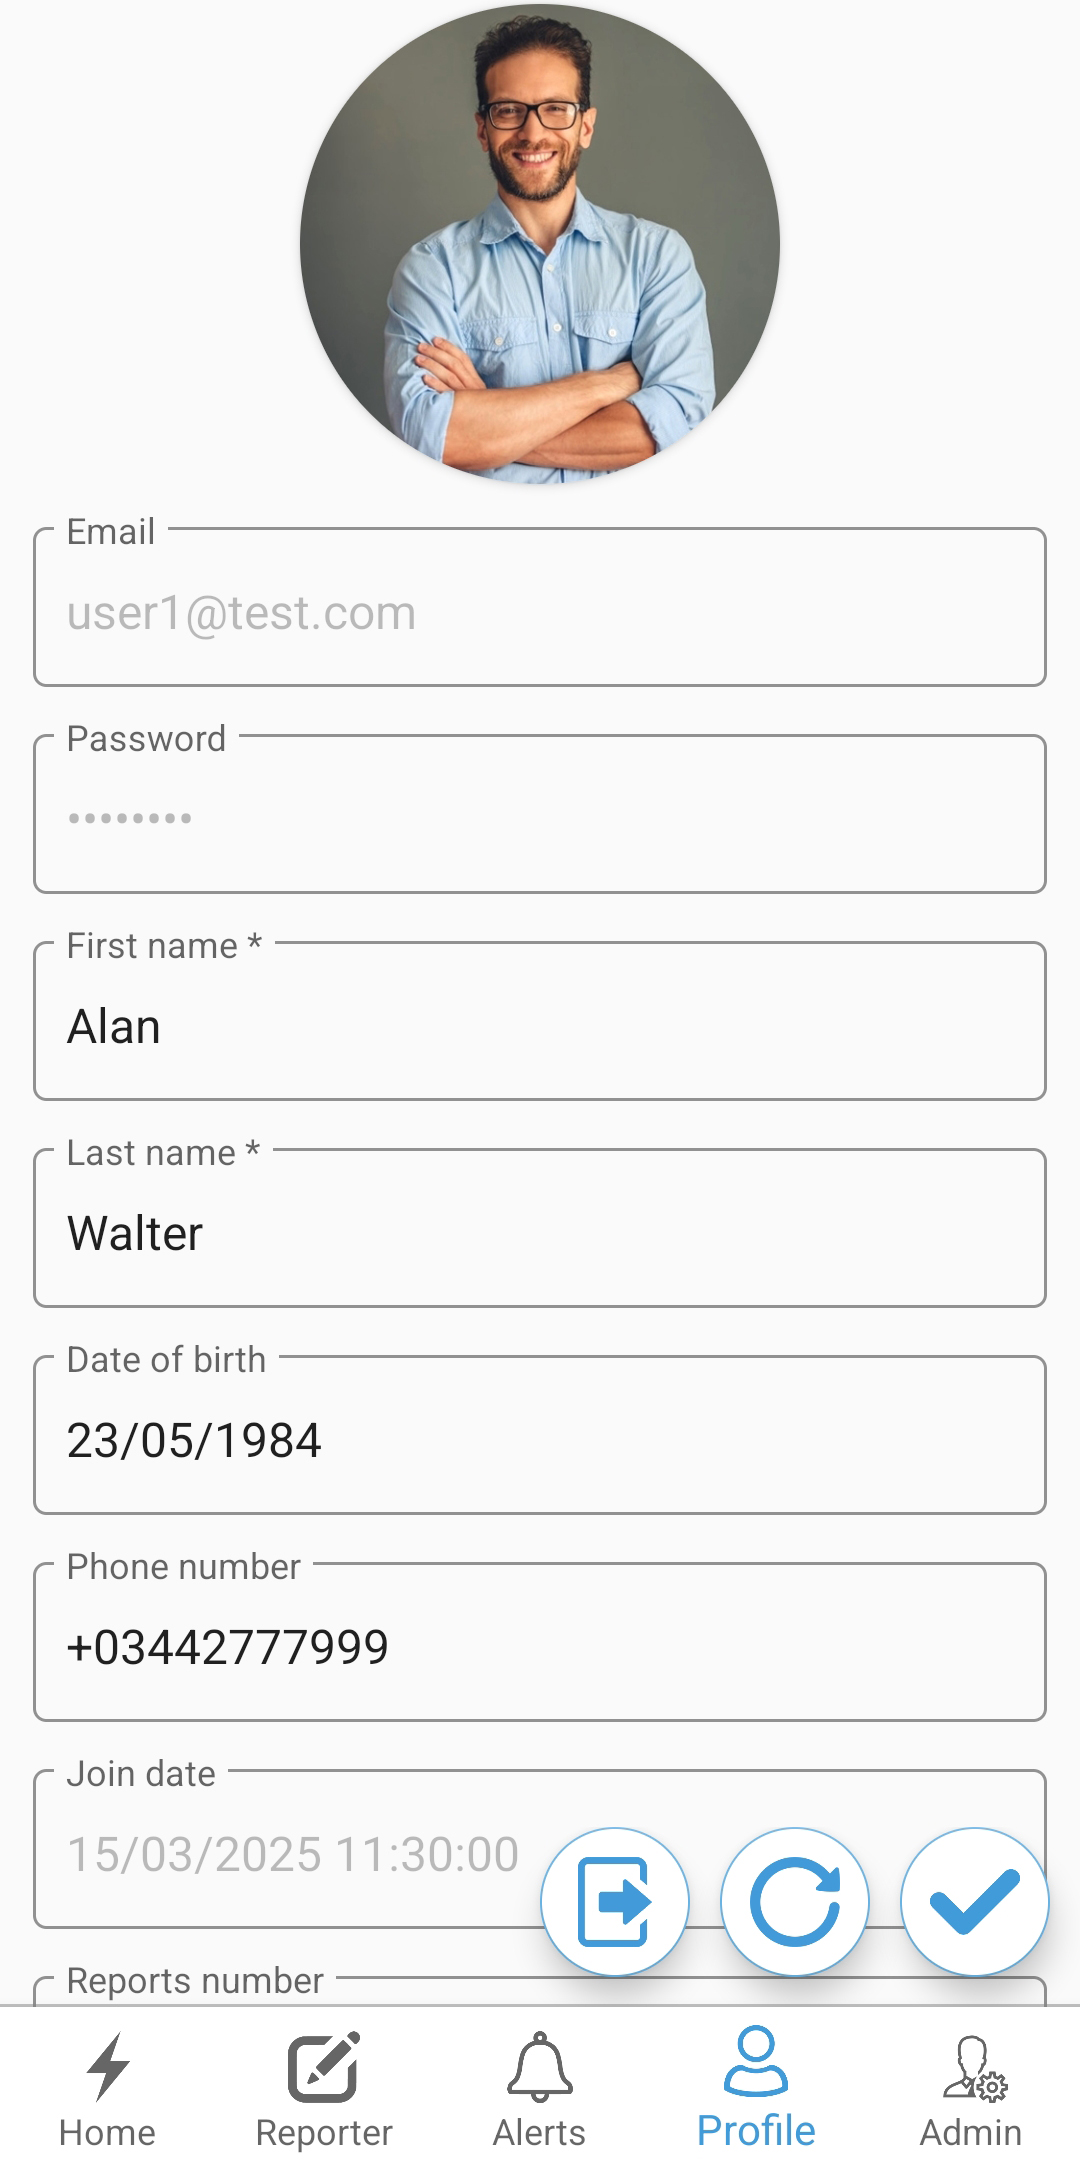
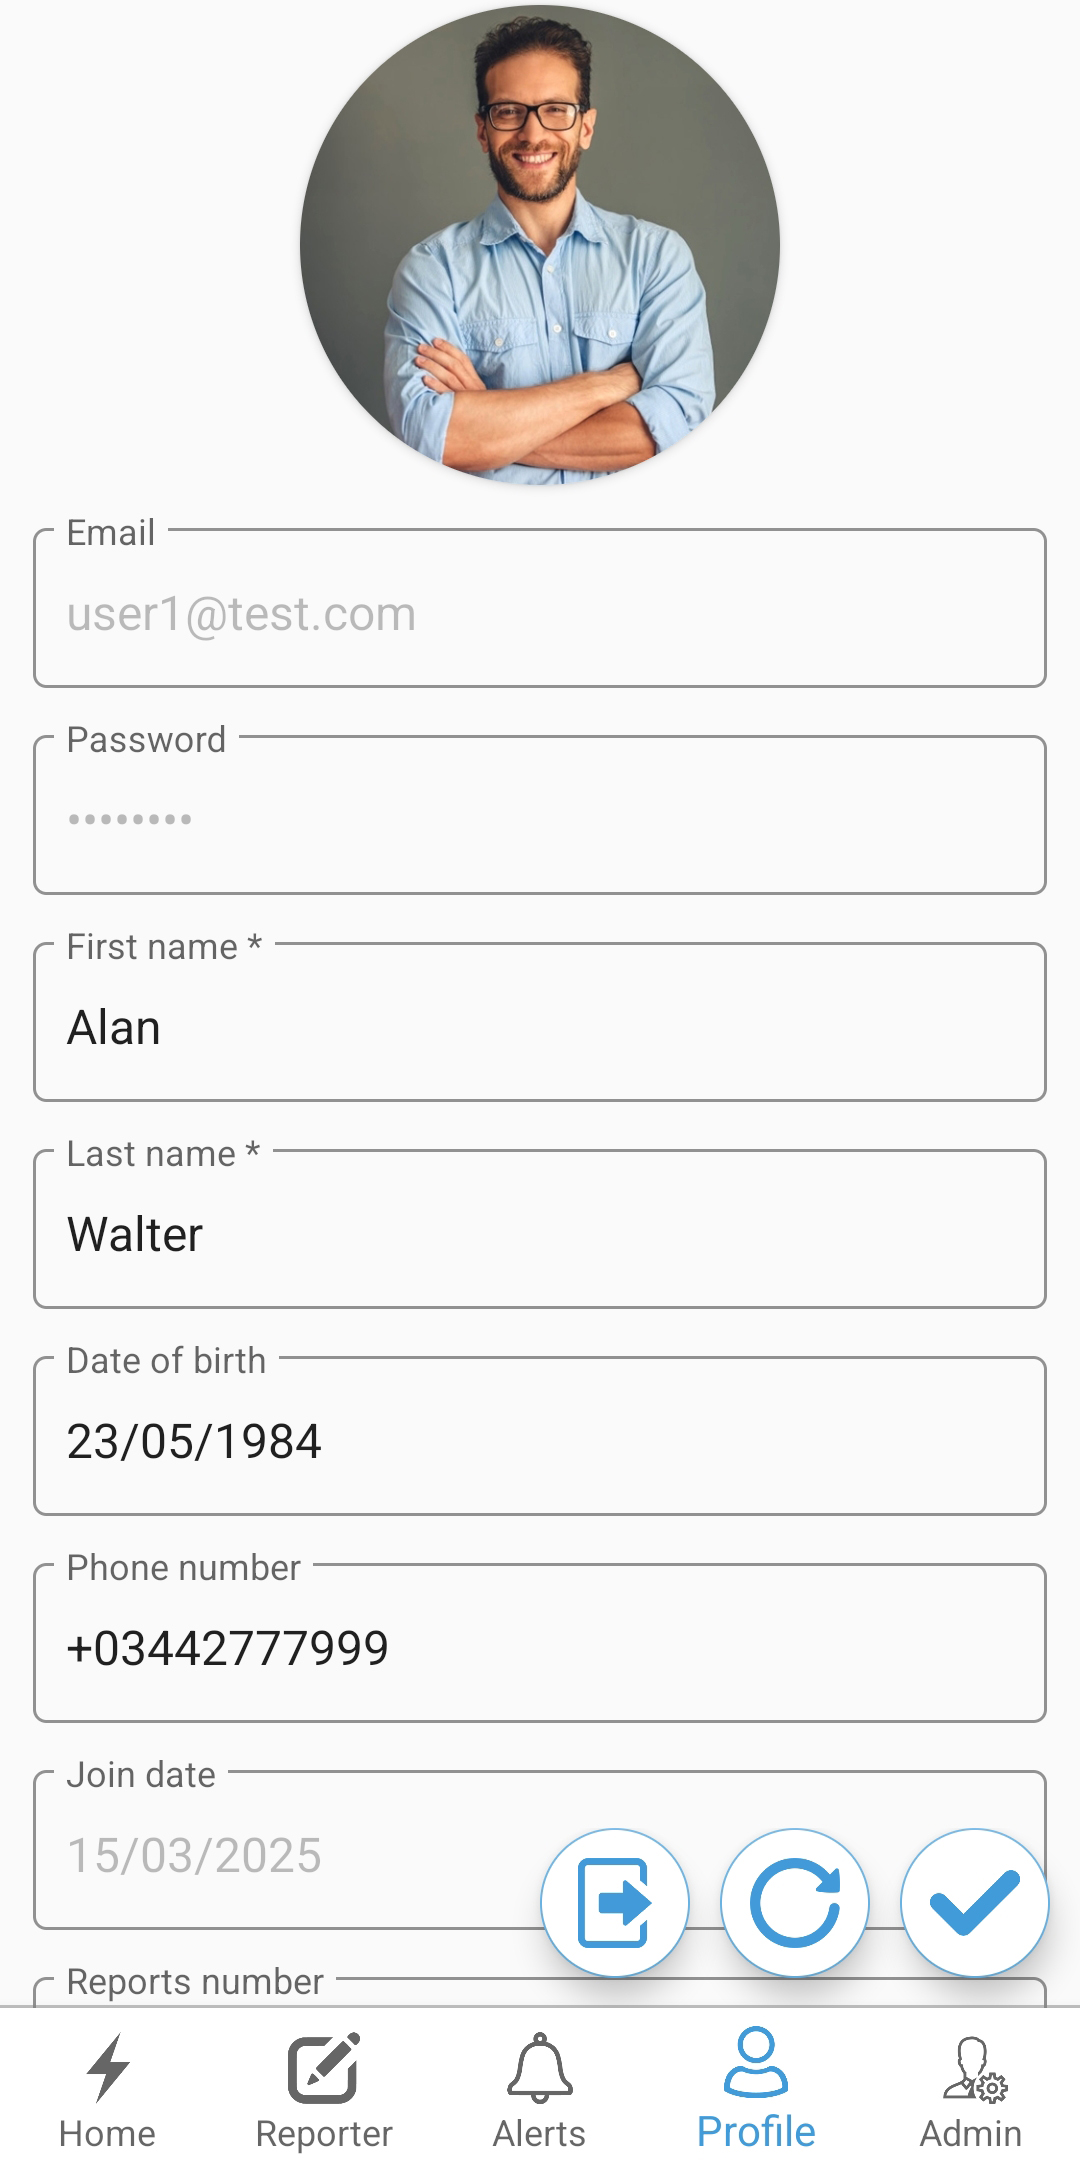
Show user join date (without time)

diff --git a/app/src/main/java/com/as/eventalertandroid/ui/main/profile/ProfileFragment.java b/app/src/main/java/com/as/eventalertandroid/ui/main/profile/ProfileFragment.java
@@ -369,7 +369,7 @@ public class ProfileFragment extends Fragment {
         lastNameEditText.setText(user.lastName);
         dateOfBirthEditText.setText(user.dateOfBirth == null ? null : user.dateOfBirth.format(Constants.defaultDateFormatter));
         phoneNumberEditText.setText(user.phoneNumber);
-        joinDateTextView.setText(user.joinedAt.format(Constants.defaultDateTimeFormatter));
+        joinDateTextView.setText(user.joinedAt.format(Constants.defaultDateFormatter));
         numberOfReportsTextView.setText(String.valueOf(user.reportsNumber));
         String roleLabels = Arrays.stream(user.roles).map(role -> role.label).collect(Collectors.joining(", "));
         rolesTextView.setText(roleLabels);
